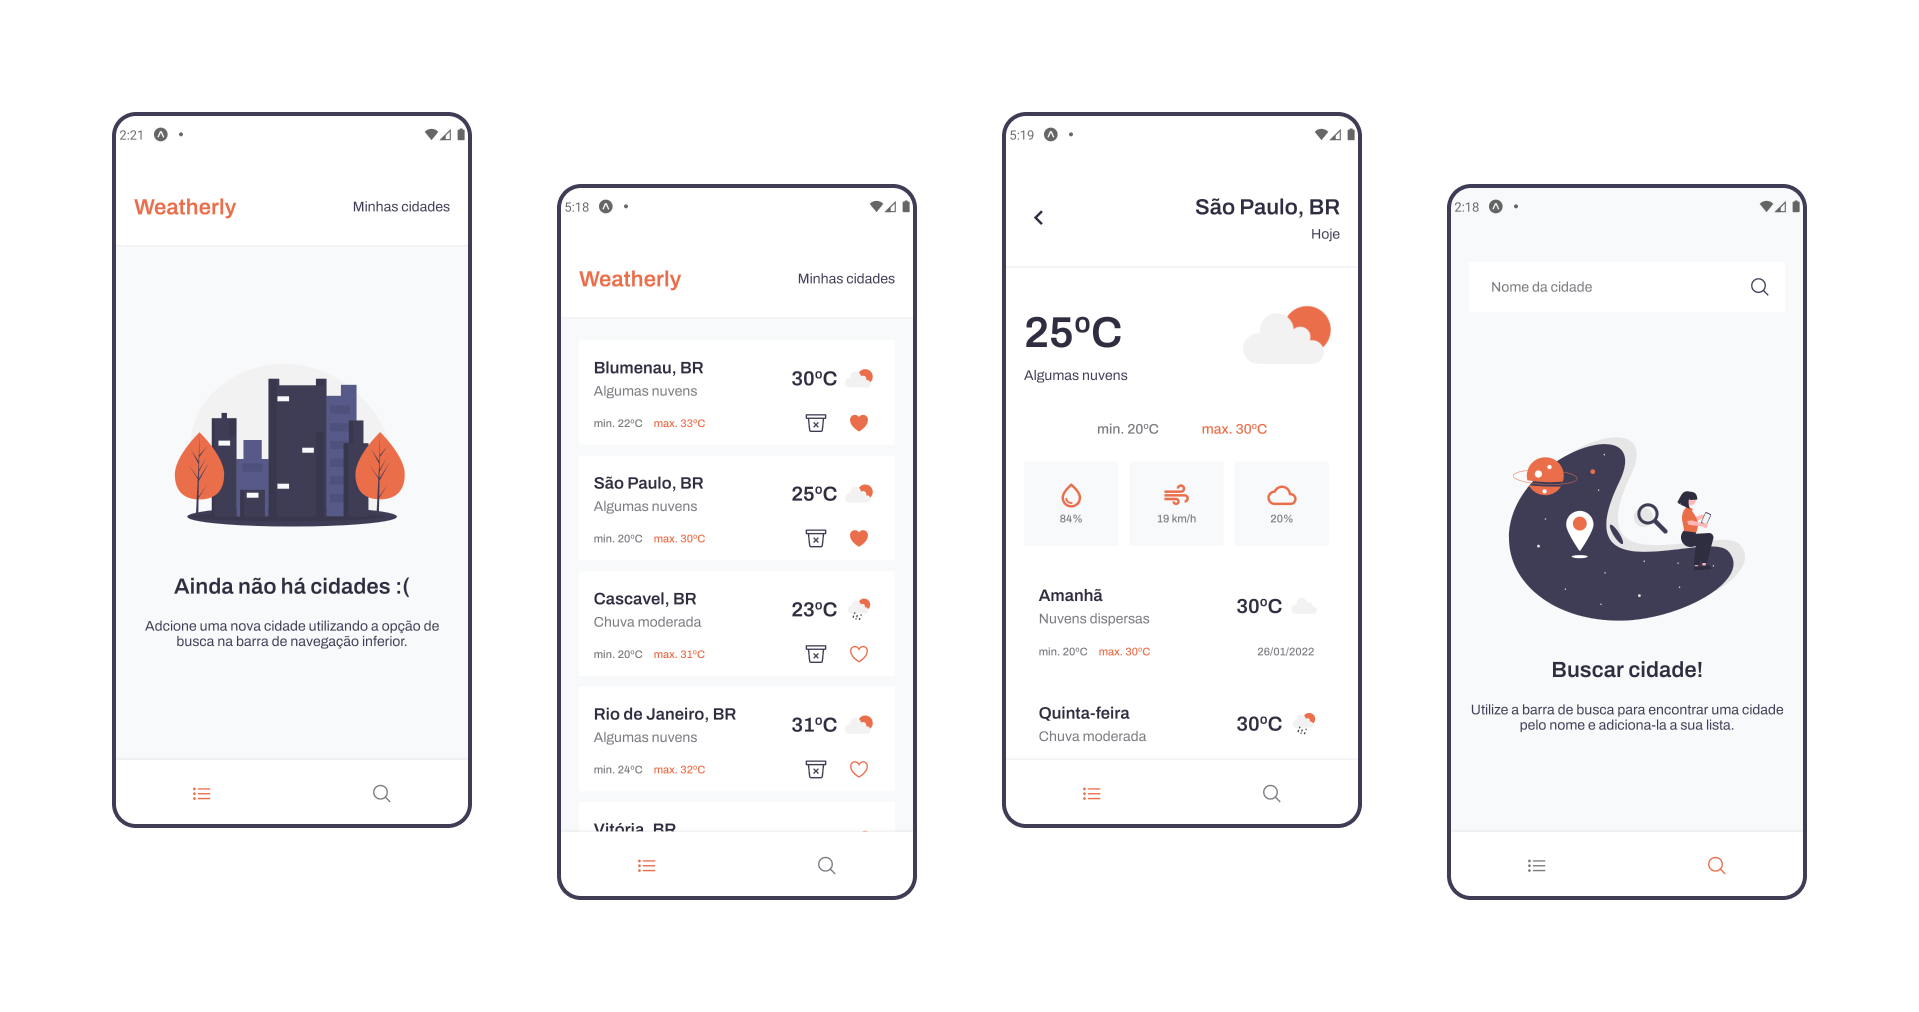
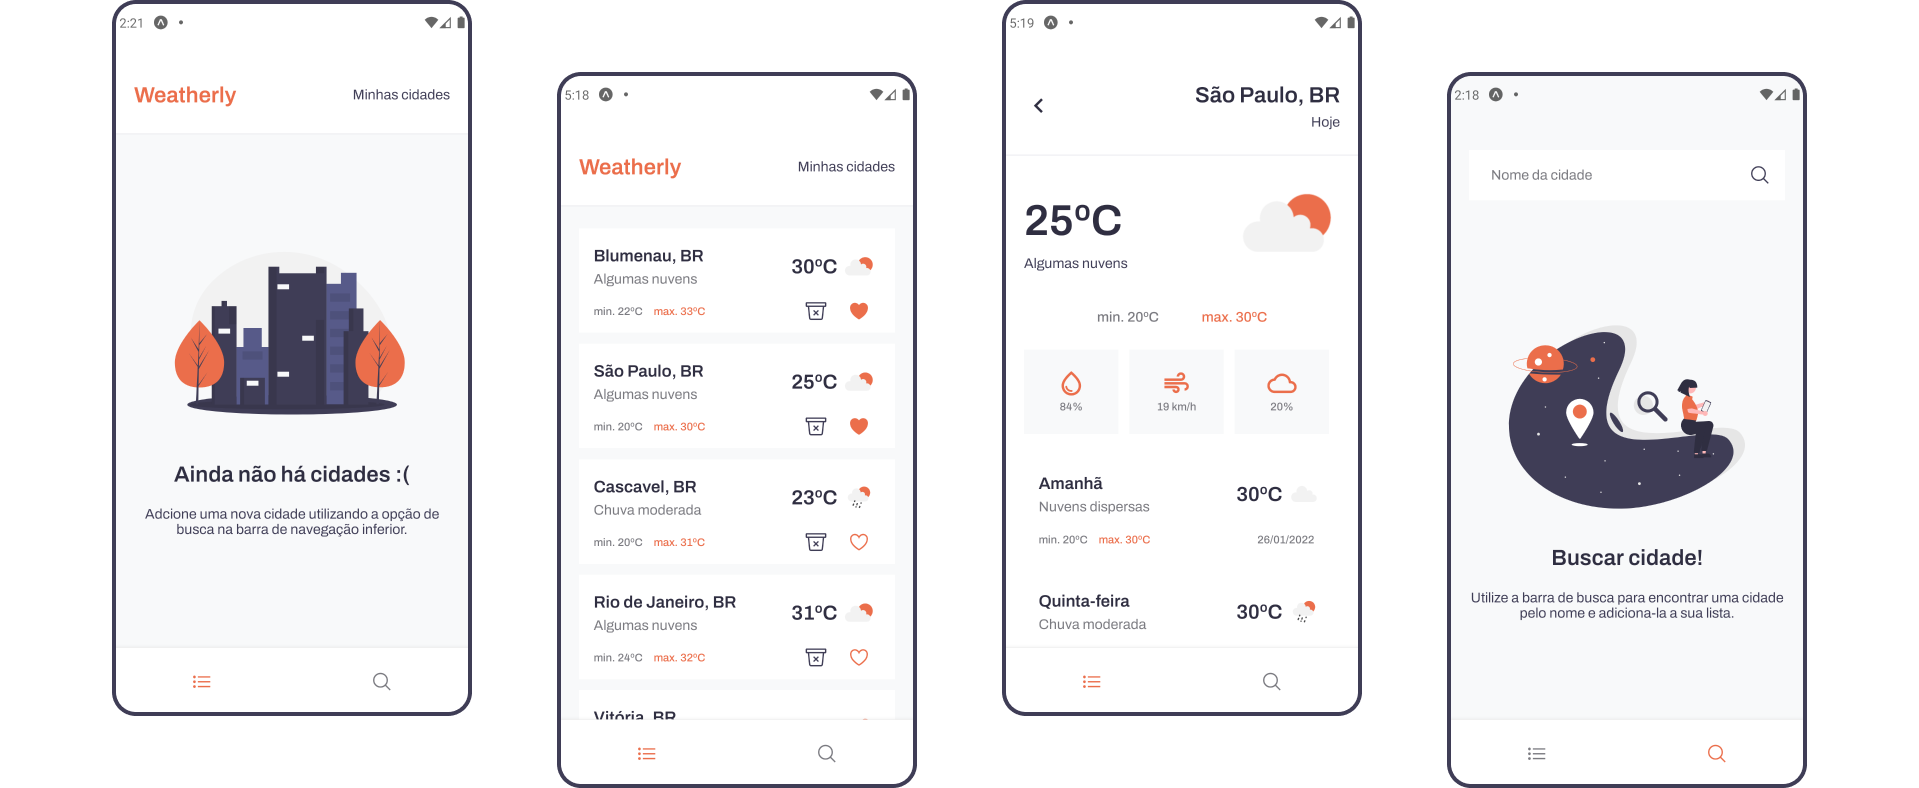
fix: change readme links and app image

diff --git a/README.md b/README.md
@@ -1,10 +1,9 @@
 <h1 align="center">
-  <img alt="Instadev" title="Pomo.up" src=".github/logos-weatherly.svg" width="220px" />
+  <img alt="Weatherly logo" title="Weatherly" src=".github/logo-weatherly.svg" width="220px" />
 </h1>
 <br>
-<br>
 <p align="center">
-  <img alt="Instadev" src=".github/weatherly.png" width="100%">
+  <img alt="Weatherly app" src=".github/weatherly.png" width="100%">
 </p>
 <br>
 
@@ -24,8 +23,8 @@ Para utilizar a aplicação em sua máquina é necessário ter os seguintes soft
 - [Expo CLI](https://docs.expo.dev/workflow/expo-cli/)
 - [Expo Go - iOS/Android](https://expo.dev/client)
 - [Yarn](https://yarnpkg.com/) (opcional)
-- [Android Studio](https://yarnpkg.com/) (opcional)
-- [Xcode](https://yarnpkg.com/) (opcional)
+- [Android Studio](https://developer.android.com/studio) (opcional)
+- [Xcode](https://developer.apple.com/xcode/) (opcional)
 
 Com os software citados acima instalados, basta seguir os seguintes passos para executar a aplicação em sua máquina:
 1. **Criar uma API Key no OpenWeather** <br>
